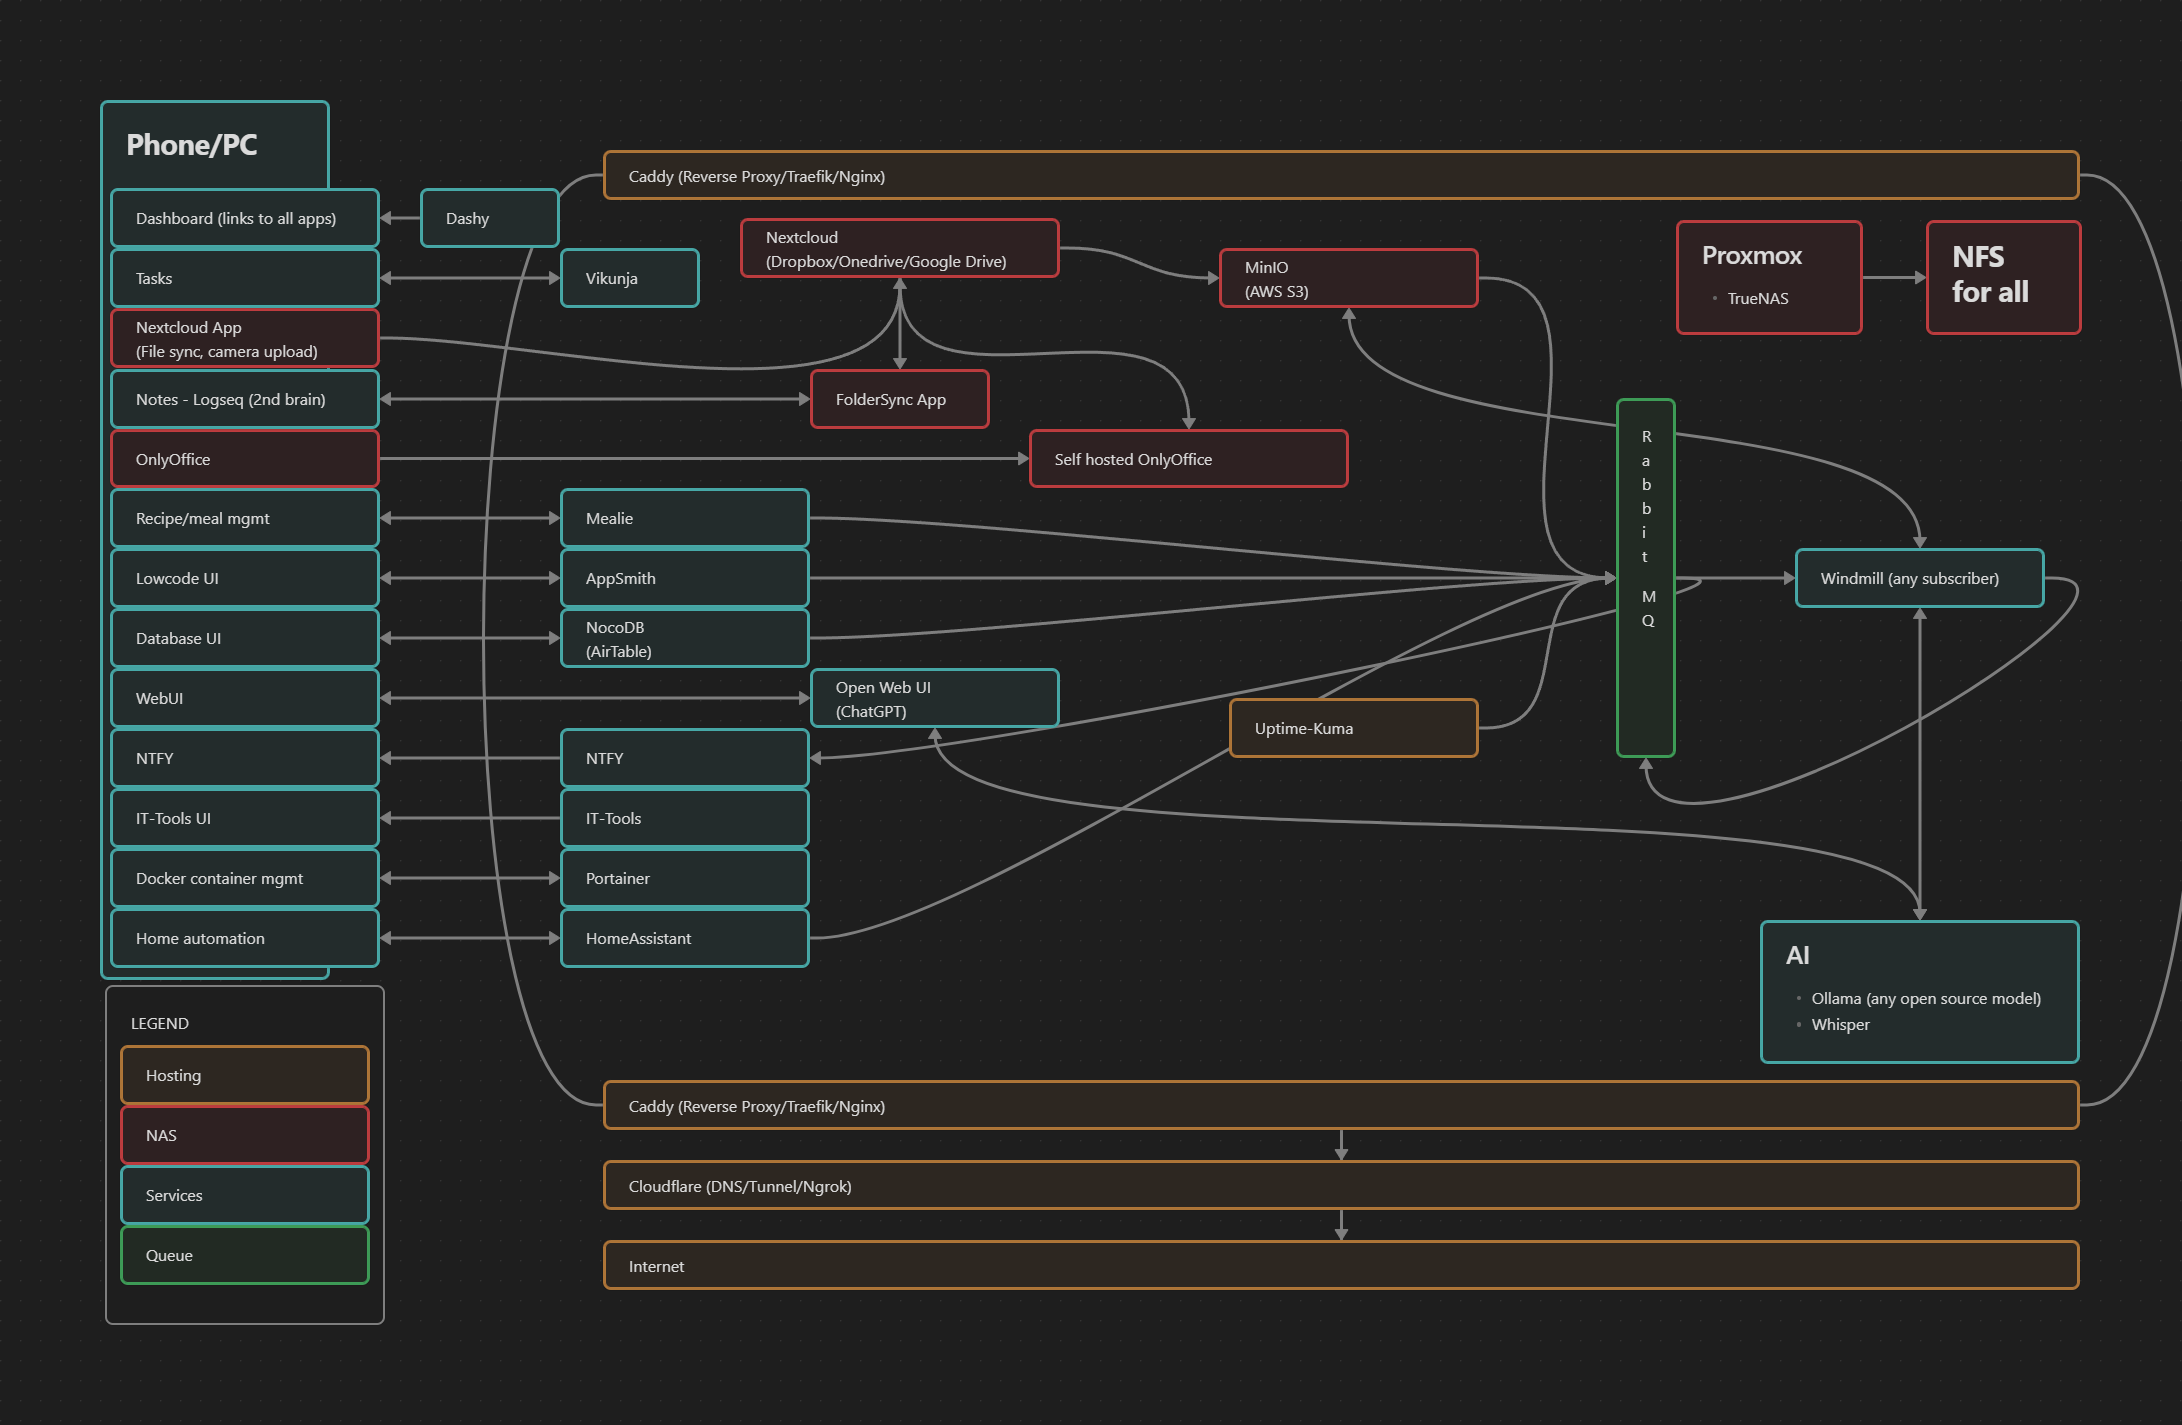
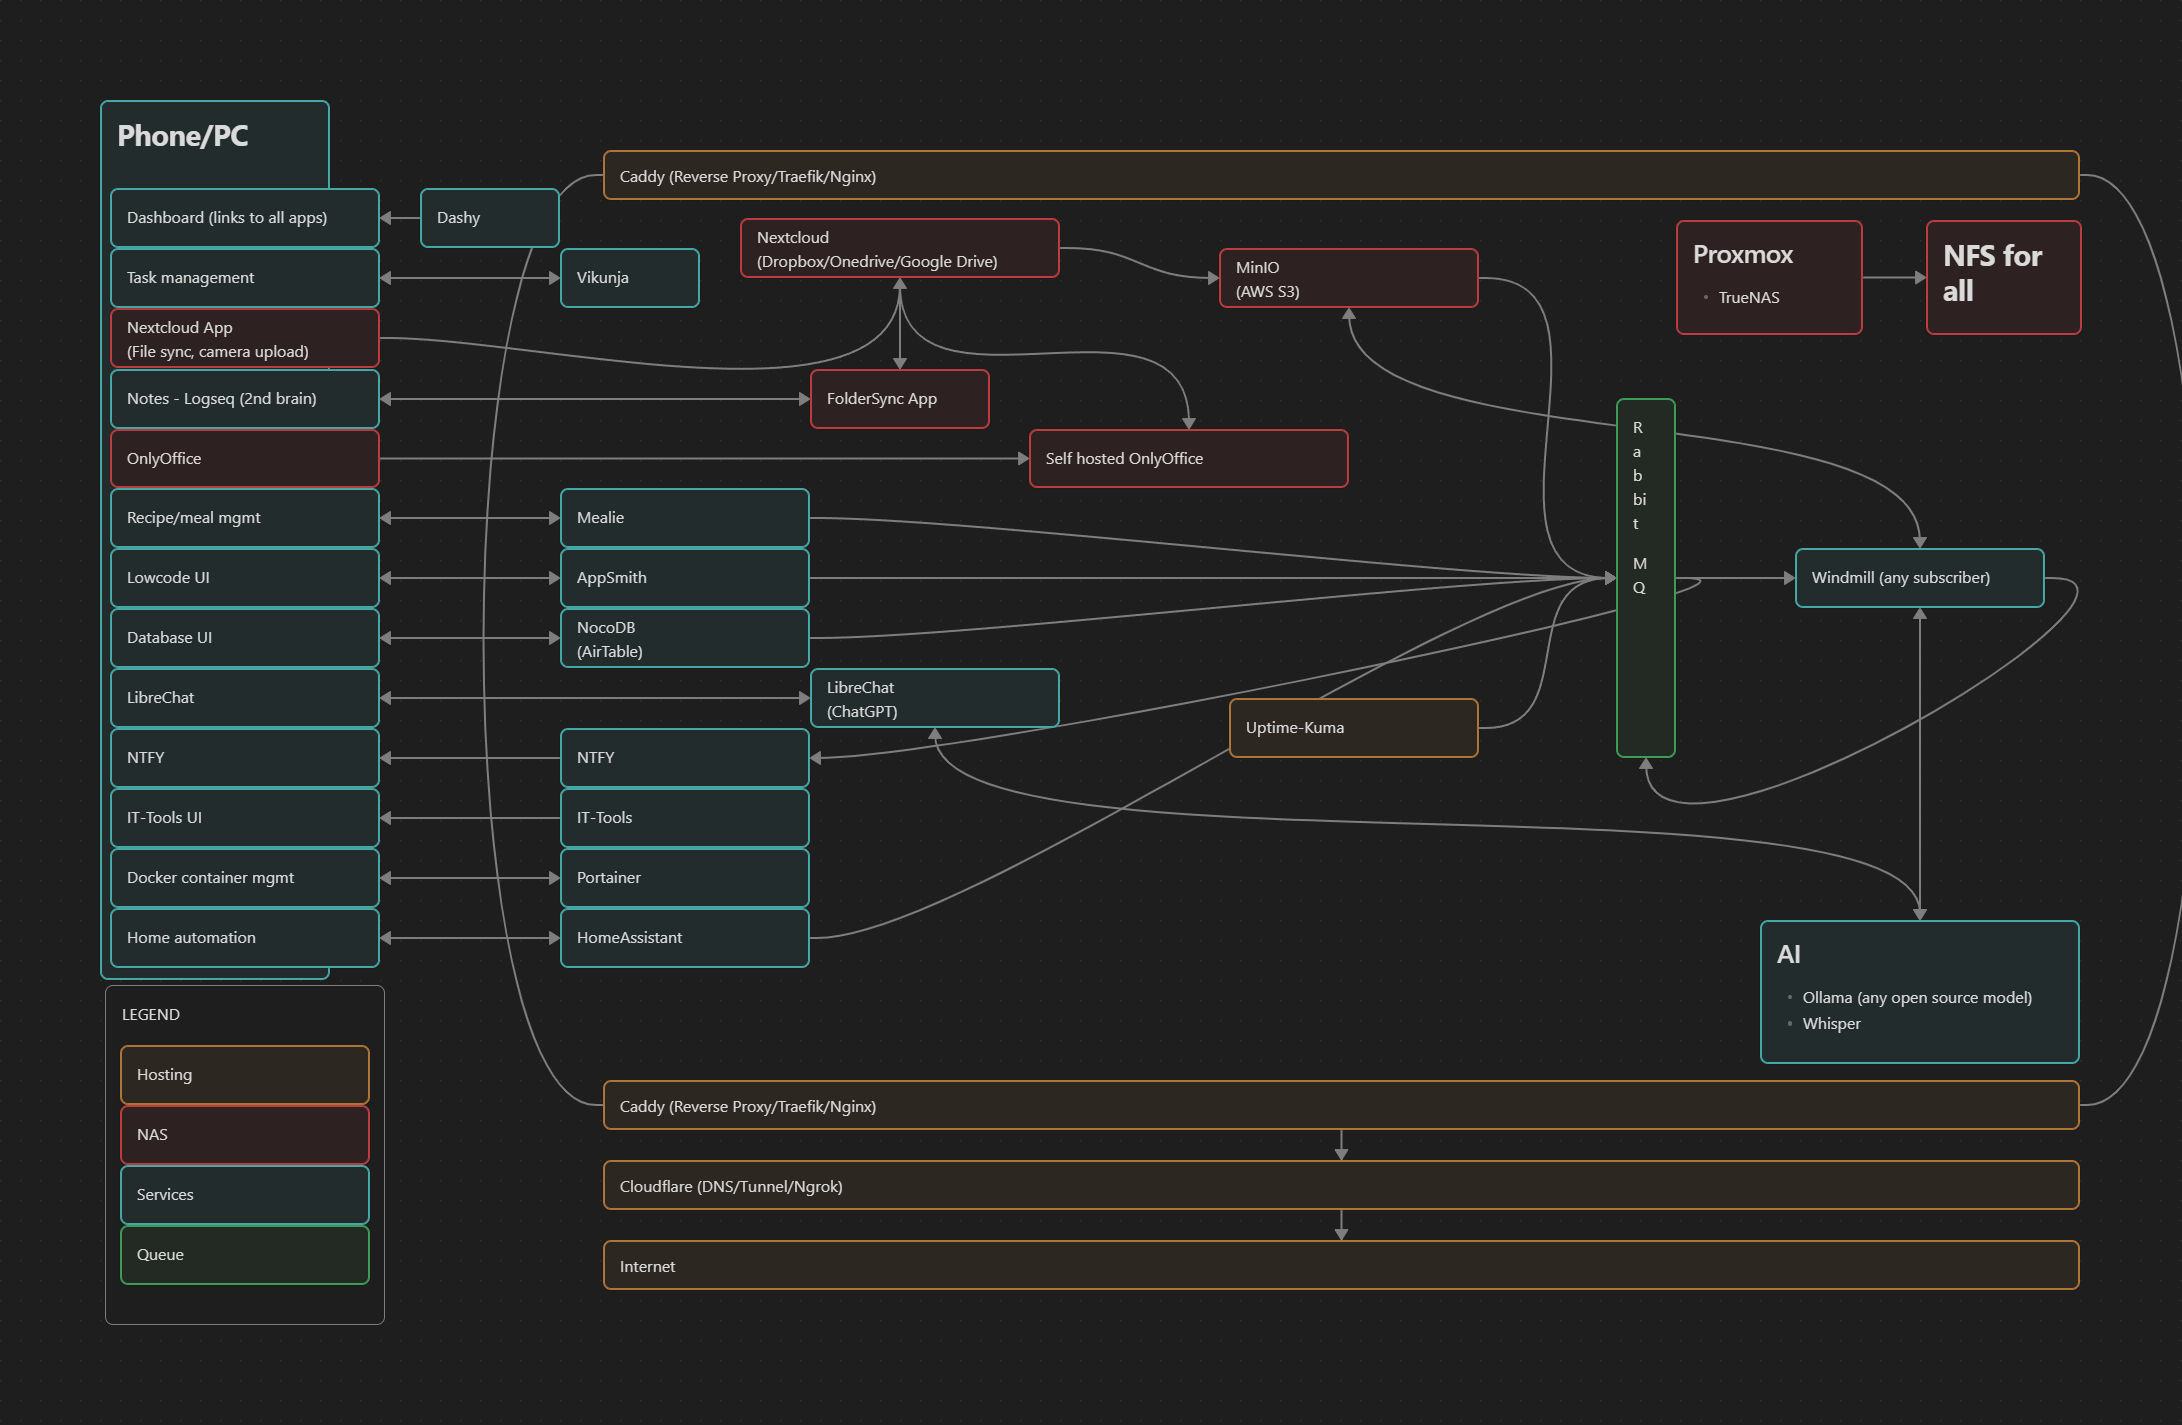
Update readmes

diff --git a/README.md b/README.md
@@ -1,50 +1,46 @@
 # Existential
-Be present and EXIST. Unlock potential and free time with free software. Built for individuals seeking an edge against the onslaught of tasks and ideas before them—those willing to put in (or delegate) significant effort to make it happen. This is a collection of vetted solutions, stitched together to create something greater.
-If it exists; don't remake it—bridle it.
+Personal knowledge mangement meets AI automation. Existential is a currated homelab with AI tools, workflow automation, note-taking, file management, and various productivity applications. Ensuring use of only free open source software that can be used commercially (in case a project takes off). Combining all of the best existing solutions into an app who's single purpose is to serve the individual.
 
 ### Dashboard (courtesy of [dashy](https://opensource.org/license/mit))
-![Dashy](dashy.png)
+![Dashy](./services/dashy/dashy.png)
 
-### Architecture diagram
-![Architecture Diagram](architecture.png)
+## Examples
+### Meeting
+![Flow diagram](./automations/flows/basic-flow.png)
+###### [More detailed diagram](./automations/flows/transcribe/transcription.png)
+- Record a meeting (phone or desktop)
+- Get notified with the transciption and summary
+- Add tasks in Vikunja
+##### ![Vikunja](services/vikunja/vikunja.png)
 
-## Alternatives
-- [Tana](https://tana.inc/)
-
-## [Hosting](/hosting/README.md)
-
-## Getting started
-#### Prerequisites
-##### Docker
-https://www.docker.com/
-
-##### An S3 compatible API like MinIO for file triggers
-See [/hosting/README.md](/hosting/README.md)
-
-#### Setup
-- Copy .env.example files and fill in your values `cp .env.example .env`
-- Setup the docker network
-- `docker network create exist --subnet=172.18.0.0/24`
-
-#### Run
-- `docker-compose up -d` in each service directory you want to run.
-OR
-- Coming soon `./deployStack.sh` to deploy each service marked in main .env
+### Recall
+![LibreChat UI](./ai/libreChat/recall.png)
+- Chat with your notes using [LibreChat](./ai/libreChat/README.md)
 
 ## Applications
-### Monitoring/managing containers
-- [Dashy](./services/dashy/README.md)
-- [Portainer](./hosting/portainer/README.md)
-- [Uptime-Kuma](./hosting/uptimeKuma/README.md)
+### AI
+- [LibreChat](./ai/libreChat/README.md) (interface with RAG: all notes/digital context)
+- [Ollama](./ai/ollama/README.md) (general AI)
+- [Whisper](./ai//whisper/README.md) (transcription)
 
-### File editing [alts](./graveyard/fileEditor.md)
-- [OnlyOffice](https://www.onlyoffice.com/download-desktop.aspx#desktop)
+### Workflow automation [alts](./graveyard/lowcodeWorkflow.md)
+- [Windmill](./services/windmill/README.md)
 
 ### Note taking [alts](./graveyard/notes.md)
 - [Logseq](./services/logseq/README.md)
 
-### When/notification/task management [alts](./graveyard/when.md)
+### Recipe management
+- [Mealie](./services/mealie/README.md)
+
+### Personal finance
+- Firefly-III https://github.com/firefly-iii/firefly-iii (TBD)
+
+### File editing [alts](./graveyard/fileEditor.md)
+- [OnlyOffice](https://www.onlyoffice.com/download-desktop.aspx#desktop)
+
+### When (notification/task management) [alts](./graveyard/when.md)
 - [ntfy](./services/ntfy/README.md)
+- [Vikunja](./services/vikunja/README.md)
 
 ### Low code database/spreadsheets [alts](./graveyard/lowcodeDB.md)
 - [NocoDB](./services/nocoDB/README.md)
@@ -53,53 +49,38 @@ OR
 - [Appsmith](./services/appsmith/README.md) for "internal" apps (more functional)
 - [Lowcoder](./services/lowcoder/README.md) for "external" apps (prettier)
 
-### Workflow [alts](./graveyard/lowcodeWorkflow.md)
-- [Windmill](./services/windmill/README.md)
+### Monitoring/managing containers
+- [Dashy](./services/dashy/README.md) dashboard.
+- [Portainer](./hosting/portainer/README.md) remote docker container management.
+- [Uptime-Kuma](./hosting/uptimeKuma/README.md) notifications when servers go down.
 
 ### Random tools [alts](./graveyard/tools.md)
 - [IT-Tools](./services/itTools/README.md)
 
-### Personal finance
-- Firefly-III https://github.com/firefly-iii/firefly-iii (TBD)
+## Architecture diagram
+![Architecture Diagram](architecture.png)
 
-### Recipe management
-- [Mealie](./services/mealie/README.md)
+## Getting started
+### Hosting
+Self [hosting](/hosting/README.md).
 
-### Coming soon
-[AI](./graveyard/ai.md)
+#### Prerequisites
+##### Docker
+https://www.docker.com/
+
+##### An S3 compatible API like MinIO for file triggers
+See [/hosting/README.md](/hosting/README.md)
+
+#### Setup
+- Copy .example files and fill in your values eg: `cp .env.example .env`
+- Setup the docker network
+- `docker network create exist --subnet=172.18.0.0/24`
+
+#### Run
+- `docker-compose up -d` in each service directory you want to run.
+OR
+- Coming soon `./deployStack.sh` to deploy each service marked in main .env
 
 ## Third-Party Software
 
 This project includes multiple open source projects with respective licensing.
-
-#### Appsmith
-- Source: https://github.com/appsmithorg/appsmith
-- License: [Apache2](https://www.apache.org/licenses/LICENSE-2.0)
-
-#### Dashy
-- Source: https://github.com/Lissy93/dashy
-- License: [MIT](https://opensource.org/license/mit)
-
-#### IT Tools
-- Source: https://github.com/CorentinTh/it-tools
-- License: [GPL-3](https://www.gnu.org/licenses/gpl-3.0.html)
-
-#### Logseq
-- Source: https://github.com/logseq/logseq
-- License: [AGPL-3](https://www.gnu.org/licenses/agpl-3.0.html)
-
-#### Lowcoder
-- Source: https://github.com/lowcoder-org/lowcoder
-- License: [AGPL-3](https://www.gnu.org/licenses/agpl-3.0.html)
-
-#### NocoDB
-- Source: https://github.com/nocodb/nocodb
-- License: [AGPL-3](https://www.gnu.org/licenses/agpl-3.0.html)
-
-#### Vikunja
-- Source: https://github.com/go-vikunja/
-- License: [AGPL-3](https://www.gnu.org/licenses/agpl-3.0.html)
-
-#### Windmill
-- Source: https://github.com/windmill-labs/windmill
-- License: [AGPL-3](https://www.gnu.org/licenses/agpl-3.0.html) + other unused licenses

diff --git a/nas/nextcloud/README.md b/nas/nextcloud/README.md
@@ -58,19 +58,13 @@ Note: BEFORE adding this, if you are loading a large amount of files, it may be 
 ### Auto sync from phone
 - Turn on auto upload
 - Configure the target path to be in S3 (if you like)
-#### Non-audio/video file sync
+<!-- #### Non-audio/video file sync
 December 2024 Google revoked "All file access" permissions for the Nextcloud app.
 - Download FolderSync (or use F-Droid?)
 - Add Nextcloud credentials
 - Add folder sync
 - Setup schedule
-- Turn on instant upload
-
-### Task app from Nextcloud
-Doesn't support recurring tasks. Will use tasks.org solution instead.
-
-### Cookbook app from Nextcloud
-Testing this one out, and sharing the folder to hopefully keep recipes in sync with multiple people.
+- Turn on instant upload -->
 
 
 ## Maintenance

diff --git a/graveyard/when.md b/graveyard/when.md
@@ -4,13 +4,16 @@
 
 # [Vikunja](../services/vikunja/README.md)
 
-# TBD
-# ntfy
-https://github.com/binwiederhier/ntfy
+# [ntfy](../services//ntfy/README.md)
 
 # RIP had sync issues after a few weeks (unrecoverable phone state)
 # Super Productivity
 - lacks notifications
+
+# Notion
+# Tasks.org
+# Todoist
+# TickTick
 
 # Compromise
 Use [tasker](https://play.google.com/store/apps/details?id=net.dinglisch.android.taskerm&hl=en_US) to open the task app every Nth time you unlock your phone. EG every 7th unlock run Anytype:

diff --git a/automations/README.md b/automations/README.md
@@ -1,0 +1,4 @@
+# Automations
+The meat of the operation. Unfortunately Windmill requires enterprise to import/export scripts conveniently, so these are the scripts, but they will need to be added and configured manually.
+
+![alt text](./flows/transcribe/transcription.png)

diff --git a/graveyard/notes.md b/graveyard/notes.md
@@ -63,3 +63,15 @@ https://anytype.io/
 # RIP
 # Zettlr
 - lacks graph view
+
+# TBD
+# Capacities
+https://capacities.io/
+
+# TBD
+# Mem
+https://get.mem.ai/
+
+# TBD
+# Tana
+https://tana.inc/

diff --git a/nas/README.md b/nas/README.md
@@ -1,4 +1,5 @@
 # NAS
+- Main constraints: storage
 
 Pick and choose the components to use. EG: use GoogleDrive for files, and skip TrueNAS, MinIO, Redis, and Nextcloud.
 

diff --git a/graveyard/obsidian/README.md b/graveyard/obsidian/README.md
@@ -1,4 +1,5 @@
-# Amazing - testing out Anytype as an alternative
+# RIP licensing (not open source)
+# Amazing
 # Obsidian
 ## Core plugins
 - Unique note creator

diff --git a/services/README.md b/services/README.md
@@ -1,0 +1,3 @@
+# Services
+- Main constraints: CPU/Memory
+- Relies on AI/NAS services for GPU/Storage

diff --git a/graveyard/nodeRED/README.md b/graveyard/nodeRED/README.md
@@ -1,0 +1,2 @@
+# RIP primary use case is IOT
+# NodeRED

diff --git a/ai/README.md b/ai/README.md
@@ -1,0 +1,2 @@
+# AI
+- Main constraints: GPU/VRAM
